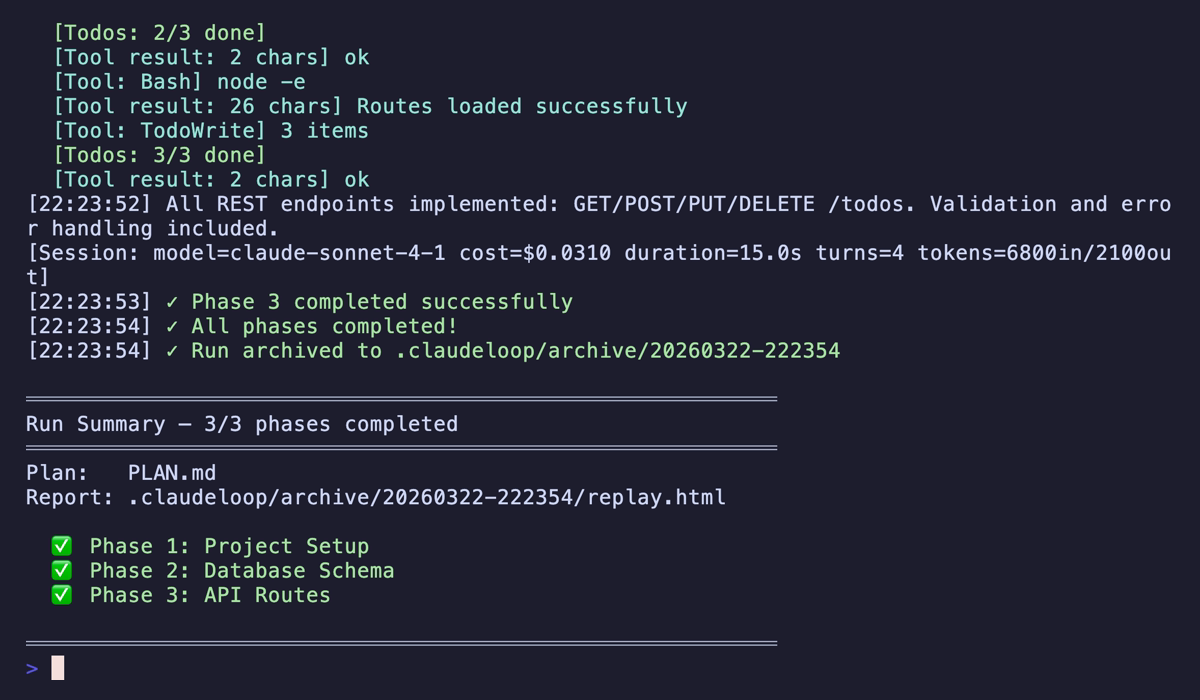
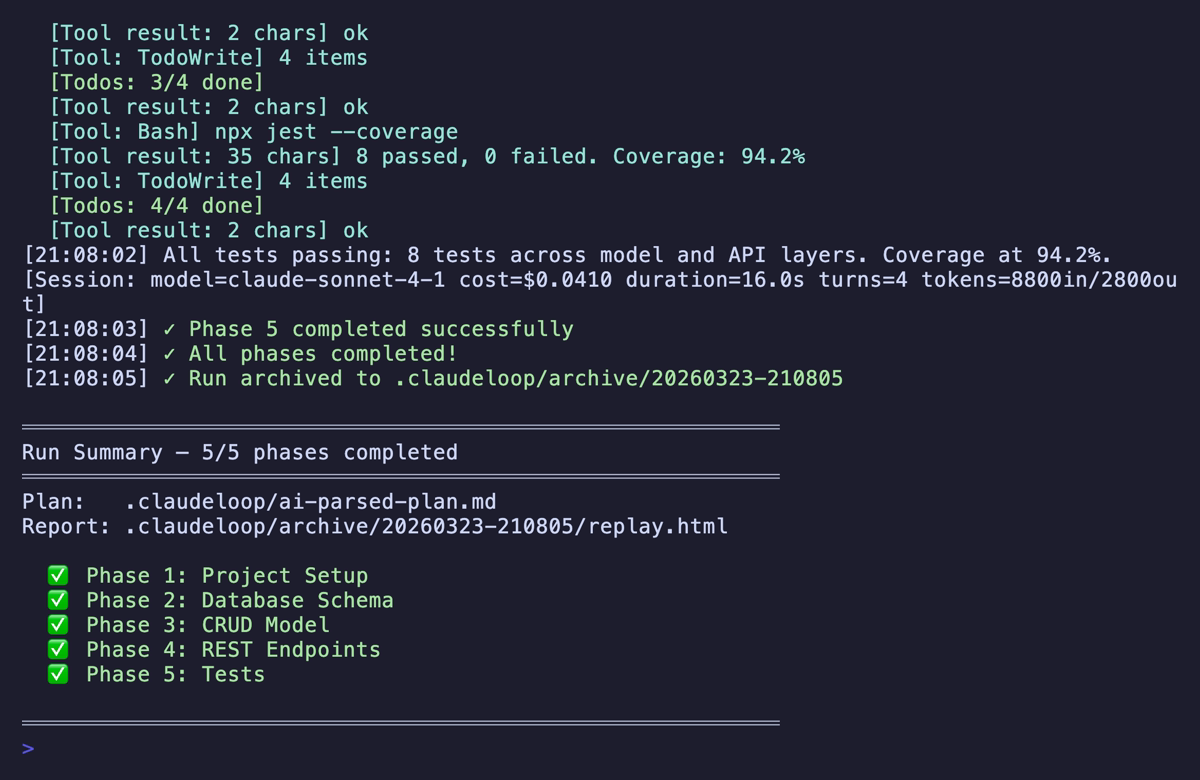
docs: surface AI plan decomposition as primary Quick Start path
Restructure README to lead with --ai-parse as the low-friction entry
point. Users see free-form bullet points first, structured Phase N
format moves to a collapsed details block.

Changes:
- Quick Start: lead with free-form notes + claudeloop --ai-parse
- Features table: replace Network Resilience with Natural Language Plans
- Comparison table: add Plan authoring row
- Move AI Plan Decomposition section up (right after Quick Start)
- "The Problem" section: mention free-form notes alongside structured plans
- Regenerate demo GIF and completion screenshot for 5-phase plan
- QUICKSTART.md: add --ai-parse tip after structured plan example

Changed region(s): [[0.0, 0.03, 0.9867, 0.51], [0.0, 0.54, 0.6475, 0.99]]

diff --git a/README.md b/README.md
@@ -16,14 +16,14 @@
 </p>
 
 <p align="center">
-  <img src="assets/demo-execution.gif" alt="ClaudeLoop executing a 3-phase plan with live progress" width="700">
+  <img src="assets/demo-execution.gif" alt="ClaudeLoop executing a 5-phase plan with live progress" width="700">
 </p>
 
 ## The Problem
 
 Long AI coding sessions hit a wall. Context fills up, the model forgets earlier decisions, and quality degrades — task 10 is dumber than task 1. You end up babysitting, copying context manually, or just accepting worse output.
 
-ClaudeLoop fixes this. Write a plan, and each task gets a **brand-new Claude instance** with fresh context. Progress is saved between tasks. If something fails, it retries automatically with escalating strategies.
+ClaudeLoop fixes this. Describe what you want — structured phases or just free-form notes — and each task gets a **brand-new Claude instance** with fresh context. Progress is saved between tasks. If something fails, it retries automatically with escalating strategies.
 
 ## Install
 
@@ -41,8 +41,8 @@ See [QUICKSTART.md](QUICKSTART.md) for beta versions, uninstall, and alternative
 |---|---|---|
 | **Fresh Context** | **Dependency Graph** | **Smart Retries** |
 | Each task spawns a new Claude instance. No context degradation, ever. | Declare dependencies between tasks. ClaudeLoop resolves execution order automatically. | Strategy rotation on failure: full prompt → stripped → error-focused. Quota-aware delays. |
-| **Network Resilience** | **Verification** | **Auto-Refactor** |
-| Detects failures, rolls back partial changes, resumes automatically. | `--verify` spawns a read-only Claude to check each task with pass/fail verdicts. | `--refactor` runs code quality passes after each task. Rolls back on failure. |
+| **Natural Language Plans** | **Verification** | **Auto-Refactor** |
+| Write bullet points or rough notes. `--ai-parse` decomposes them into phases with dependencies. | `--verify` spawns a read-only Claude to check each task with pass/fail verdicts. | `--refactor` runs code quality passes after each task. Rolls back on failure. |
 
 ### ClaudeLoop vs. the alternatives
 
@@ -55,10 +55,46 @@ See [QUICKSTART.md](QUICKSTART.md) for beta versions, uninstall, and alternative
 | **Verification** | Trust the output | Manual review | **Fresh read-only Claude checks work** |
 | **Code quality** | Hope for the best | Manual cleanup | **Auto-refactor with rollback** |
 | **Observability** | Scroll terminal | Scroll terminal | **Live monitoring + HTML replay** |
+| **Plan authoring** | Write it yourself | Write it yourself | **Free-form notes → auto-structured** |
 
 ## Quick Start
 
-**1. Write a plan** — create `PLAN.md` in your project:
+**1. Jot down what you want built** — create `PLAN.md` in your project:
+
+```markdown
+# Todo API
+
+- Set up Express + SQLite project structure
+- Database schema for todos (id, title, completed, timestamps)
+- CRUD model with prepared statements and error handling
+- REST endpoints: GET/POST/PUT/DELETE /todos
+- Tests for model and API (aim for >90% coverage)
+```
+
+**2. Let ClaudeLoop decompose and execute:**
+
+```sh
+claudeloop --ai-parse
+```
+
+ClaudeLoop turns your notes into ordered **phases** with dependencies and shows the plan for confirmation before running. Each phase gets a **fresh Claude instance** — no context degradation, automatic retries, progress saved between tasks.
+
+**3. Watch it work** from a second terminal:
+
+```sh
+claudeloop --monitor
+```
+
+<p align="center">
+  <img src="assets/screenshot-completion.png" alt="ClaudeLoop run complete — all phases done" width="700">
+</p>
+
+> **Tip:** Add `--dry-run` to preview the plan without executing: `claudeloop --ai-parse --dry-run`
+
+<details>
+<summary><strong>Want full control? Write phases yourself</strong></summary>
+
+Skip `--ai-parse` and write the structured format directly:
 
 ```markdown
 # My Project
@@ -77,23 +113,28 @@ Implement the main business logic.
 Write tests for all core functionality.
 ```
 
-**2. Run it:**
+Then run with no flags:
 
 ```sh
 claudeloop
 ```
 
-**3. Watch it work** from a second terminal:
+Explicit control over phase boundaries, descriptions, and dependency wiring.
+See `examples/PLAN.md.example` for a complete example and [Plan File Format](#plan-file-format) for the syntax.
+
+</details>
+
+## AI Plan Decomposition
 
 ```sh
-claudeloop --monitor
+claudeloop --plan ideas.md --ai-parse --dry-run
 ```
 
-<p align="center">
-  <img src="assets/screenshot-completion.png" alt="ClaudeLoop run complete — all phases done" width="700">
-</p>
+Turn free-form notes into executable tasks. Write bullet points, get a structured plan with dependencies.
 
-> **Tip:** Run `claudeloop --dry-run` first to validate your plan without executing.
+<p align="center">
+  <img src="assets/demo-dryrun.gif" alt="AI plan decomposition — turning notes into phases" width="700">
+</p>
 
 ## Replay Report
 
@@ -166,18 +207,6 @@ Real-time progress with todo and task tracking from a second terminal.
 
 <p align="center">
   <img src="assets/demo-todos.gif" alt="Live todo tracking from a second terminal" width="700">
-</p>
-
-## AI Plan Decomposition
-
-```sh
-claudeloop --plan ideas.md --ai-parse --dry-run
-```
-
-Turn free-form notes into executable tasks. Write bullet points, get a structured plan with dependencies.
-
-<p align="center">
-  <img src="assets/demo-dryrun.gif" alt="AI plan decomposition — turning notes into phases" width="700">
 </p>
 
 ## How It Works

diff --git a/QUICKSTART.md b/QUICKSTART.md
@@ -63,6 +63,8 @@ Describe what Claude should do in this phase.
 Describe what Claude should do next.
 ```
 
+> **Tip:** Prefer free-form notes? Use `claudeloop --ai-parse` and let AI structure them into phases.
+
 ## 3. Run
 
 ```bash
